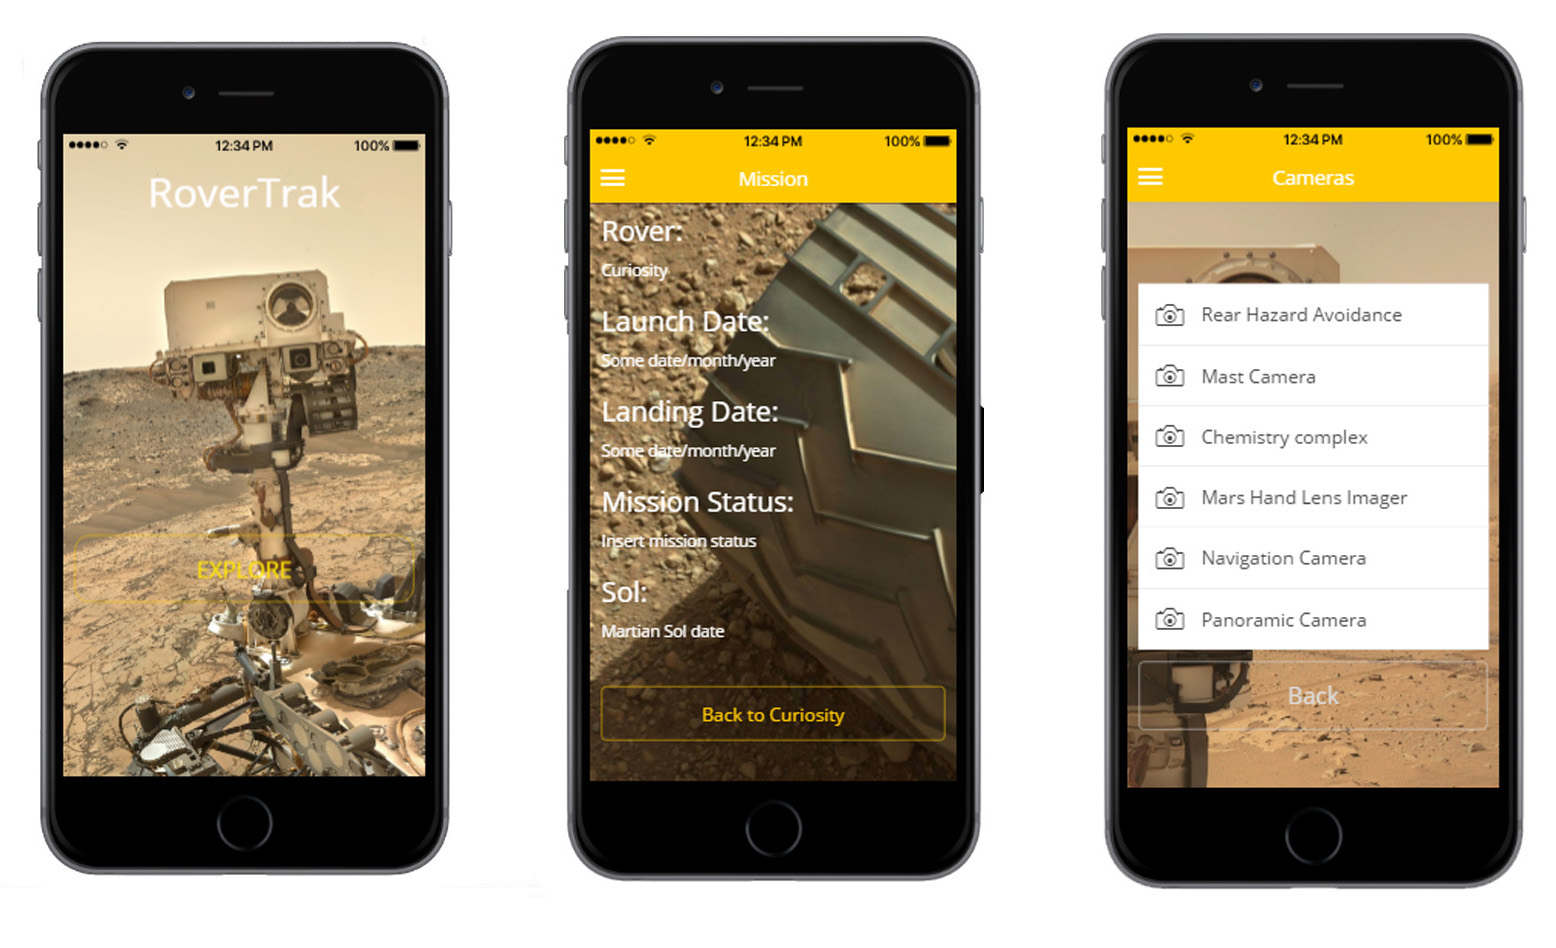
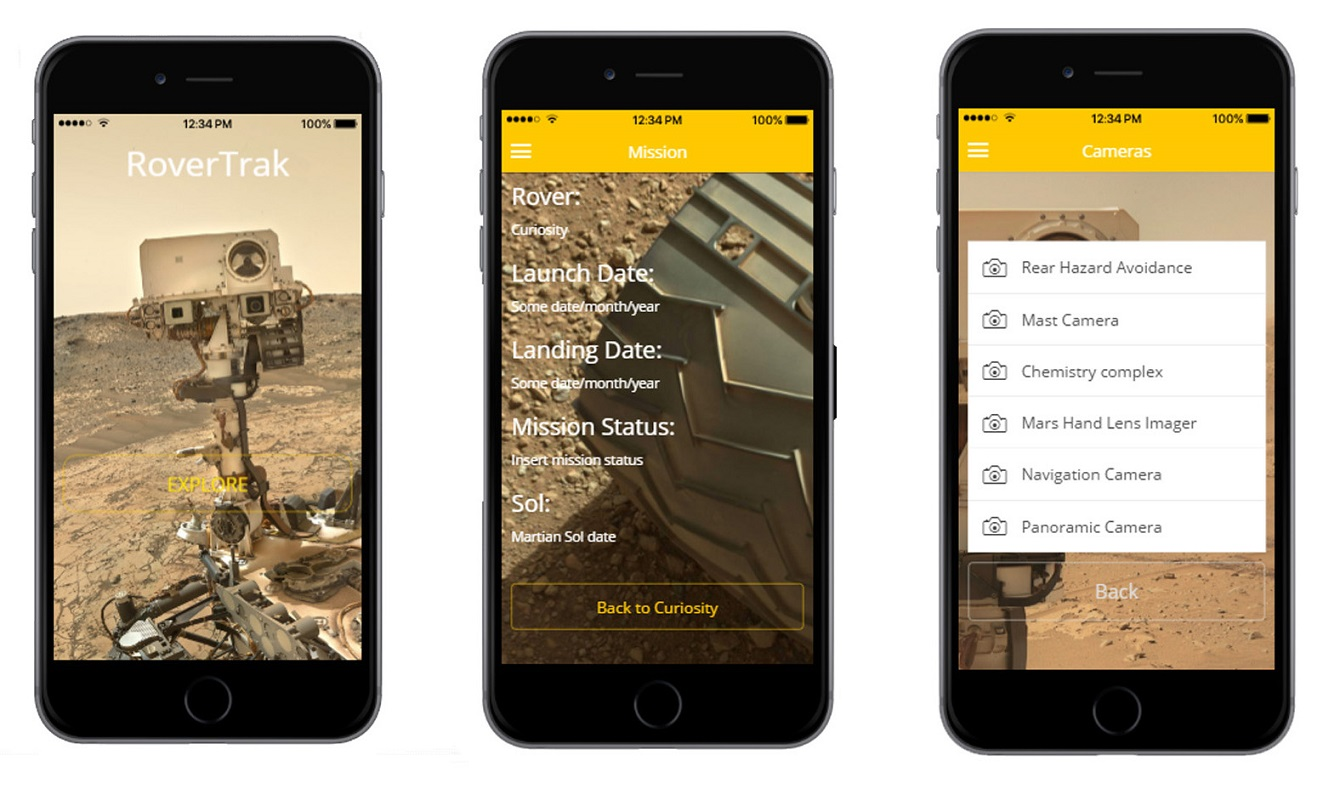
fixed rovertrak image

diff --git a/app/index.html b/app/index.html
@@ -322,7 +322,7 @@
               <h4 class="modal-title" id="myModalLabel">RoverTrak</h4>
             </div>
             <div class="modal-body">
-              <a href="http://lukegreen.net/Capstone-FINAL"><img src="images/capstone-screen.jpg" alt="Rovertrak website"></a>
+              <a href="http://lukegreen.net/capstone-FINAL/#/"><img src="images/capstone-screen.jpg" alt="Rovertrak website"></a>
               <h5>Project description</h5>
               <p>My capstone project for the Seattle University Web Development Certificate program was an educational web application called 'Rovertrak.'  Rovertrak pulls data from the NASA Open API and allows users to learn about the three Martian overs (Curiosity, Opportunity, and Spirit) and view the most recent images from these vehicles.</p>
               <p>The project required me to use third-party API data in the context of an AngularJS framework.  Although I completed the project for the purposes of the certificate program, I am continuing to develop it.  In the next phase, I will use Ionic to port Rovertrak into a native mobile application.  I will also be adding camera selection and other features</p>

diff --git a/app/styles/_global-styles.scss b/app/styles/_global-styles.scss
@@ -215,7 +215,7 @@ li {
 }
 
 #application-sample-two {
-  background: url("../images/Rovertrak-wireframes.jpg") center;
+  background: url("../images/Rovertrak-wireframes-edit.jpg") center;
   background-size: cover;
 }
 
